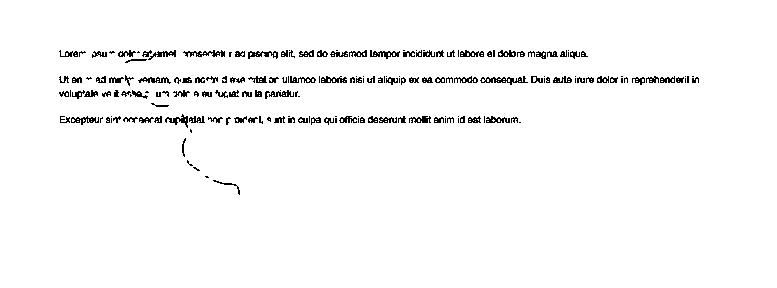
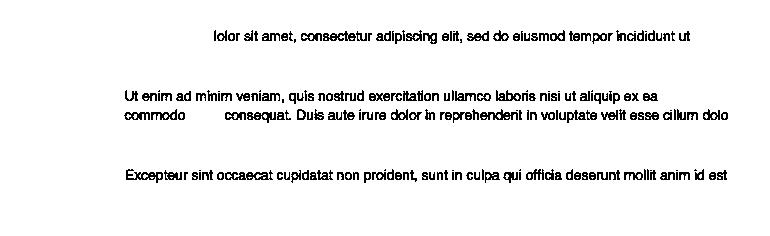
.

diff --git a/testone.py b/testone.py
@@ -398,11 +398,12 @@ def removePotentialLinePixelsInBox(original_matrix, boxLeft, boxTop, boxRight, b
         while row_index < boxBottom:
             if twoOrLessConnected(original_unchanged_matrix, column_index, row_index):
                 original_matrix[row_index][column_index] = 1 # black for now
+                #print("pixel = %d %d %d %d" % (row_index, column_index, boxRight, boxBottom))
                 global points_from_line
                 points_from_line = points_from_line + [(row_index,column_index)]
             row_index = row_index + 1
         column_index = column_index+1
-
+    print("END END END")
 
 def startRemovingBasedOnMiddle(top_threshold, bottom_threshold, middle_threshold, original_matrix):
     matrix_copy = deepcopy(original_matrix) 
@@ -419,11 +420,12 @@ def startRemovingBasedOnMiddle(top_threshold, bottom_threshold, middle_threshold
     while column_position < len(original_matrix[middle_threshold]) - 1:
         row_position = top_threshold
         while row_position < bottom_threshold:
+            print("row position = %d and column_position  = %d" % (row_position, column_position));
             if matrix_copy[row_position][column_position] == 0:
                 (firstBoxLeft, firstBoxTop, firstBoxRight, firstBoxBottom, secondBoxLeft, secondBoxTop, secondBoxRight, secondBoxBottom) = calculateBox(matrix_copy, row_position, top_threshold, bottom_threshold, column_position)
                 removePotentialLinePixelsInBox(original_matrix, firstBoxLeft, firstBoxTop, firstBoxRight, firstBoxBottom, matrix_copy)
                 removePotentialLinePixelsInBox(original_matrix, secondBoxLeft, secondBoxTop, secondBoxRight, secondBoxBottom, matrix_copy)
-                #save_image(original_matrix, "2.jpeg")
+                save_image(original_matrix, "2.jpeg")
             row_position = row_position + 1
         column_position = column_position + 1
 
@@ -992,22 +994,23 @@ lineRemovedMatrix = removeLines(bwMatrix)
 save_image(lineRemovedMatrix, "after_lines_removed.jpeg")
 
 # Step Two: Do RLSA
-#mod_matrix = doHorizontalEditingAndReturnNewMatrix(lineRemovedMatrix, 280)
-#save_image(mod_matrix, "after_hor.jpeg")
-#mod_matrix2 = doVerticalEditingAndReturnNewMatrix(lineRemovedMatrix, 330)
-#save_image(mod_matrix2, "after_ver.jpeg")
-#final_matrix = andThem(mod_matrix, mod_matrix2, width, height)
-#save_image(final_matrix, "final.jpeg")
+mod_matrix = doHorizontalEditingAndReturnNewMatrix(bwMatrix, 110)
+save_image(mod_matrix, "after_hor.jpeg")
+mod_matrix2 = doVerticalEditingAndReturnNewMatrix(bwMatrix, 170)
+save_image(mod_matrix2, "after_ver.jpeg")
+final_matrix = andThem(mod_matrix, mod_matrix2, width, height)
+save_image(final_matrix, "final.jpeg")
+sys.exit()
 
 # Step Three: Loop through connected components
 print("here")
-#matrix_of_pieces_to_delete = loopThroughConnectedComponents(final_matrix, lineRemovedMatrix)
-#save_image(matrix_of_pieces_to_delete, "matrix_of_pieces_to_delete.jpeg")
+matrix_of_pieces_to_delete = loopThroughConnectedComponents(final_matrix, lineRemovedMatrix)
+save_image(matrix_of_pieces_to_delete, "matrix_of_pieces_to_delete.jpeg")
 
 #drawLineBackOne(matrix_to_remove_line)
 #save_image(matrix_to_remove_line, "matrix_to_remove_line1.jpeg")
-#deleteMatrixFromMatrix(matrix_of_pieces_to_delete, bwMatrix)
-#save_image(bwMatrix, "matrix_to_remove_line2.jpeg")
+deleteMatrixFromMatrix(matrix_of_pieces_to_delete, bwMatrix)
+save_image(bwMatrix, "matrix_to_remove_line2.jpeg")
 
 # Step Four: Finally run remove line
 lineRemovedMatrix = removeLines(bwMatrix)
